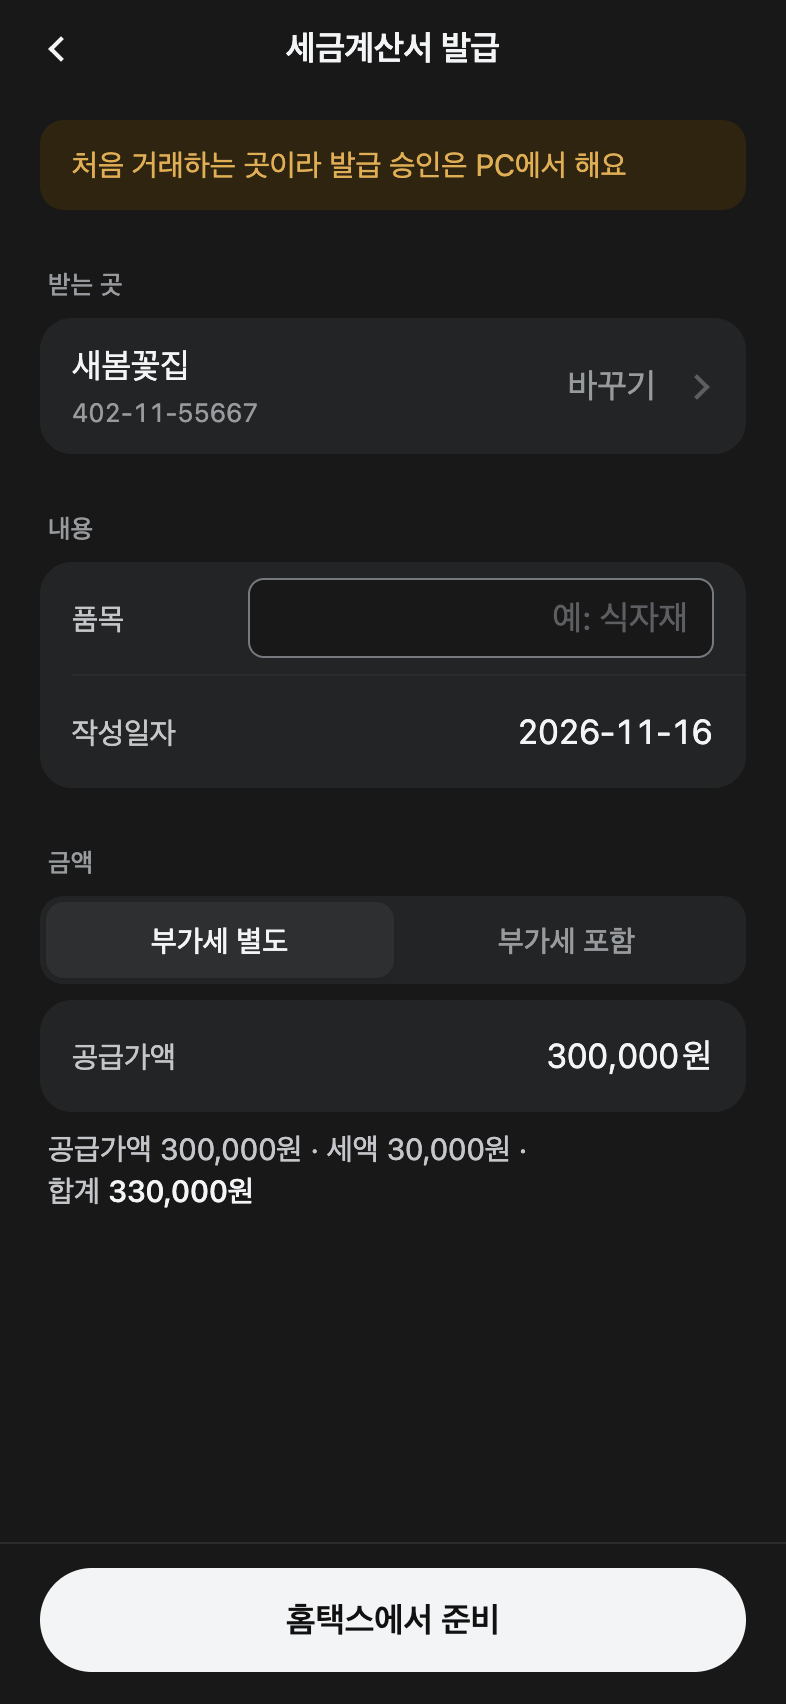
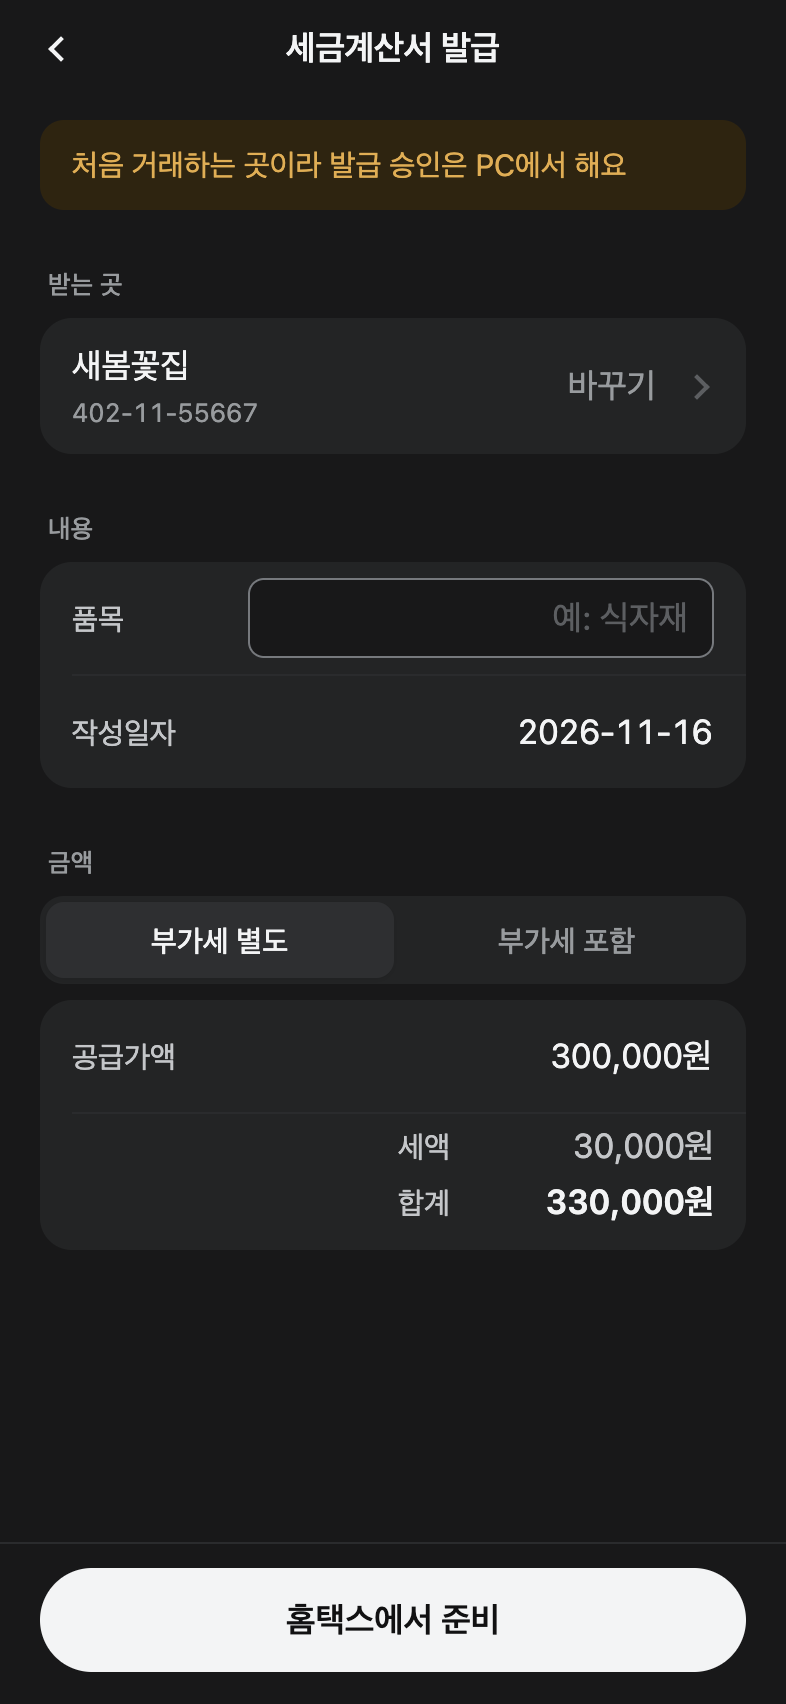
발급 작성·밀린 일 다듬기
- 금액 칸 바로 밑에 세액·합계 두 줄(오른쪽 맞춤, 합계 600). 공급가액 반복 줄 삭제
- 가운뎃점이 줄 끝에 남지 않게: 글자 부품이 " · " 뒤 칸을 붙은 칸으로 바꾼다(앱 전체)
- 금액 칸 "1,230,000원" 단위 앞 칸 없앰
- 시작 확인 줄마다 [빼기](글자만), 만료 금액은 흐림 + 취소선

Claude-Session: https://claude.ai/code/session_012kuikyEsz7WNeKSNJnA16t

Changed region(s): [[0.7023, 0.591, 0.916, 0.7154], [0.0611, 0.6532, 0.3969, 0.7154], [0.4275, 0.6532, 0.6412, 0.7154]]

diff --git a/src/ui/kit.tsx b/src/ui/kit.tsx
@@ -16,6 +16,10 @@ import { MAX_FONT_SCALE, motion, radius, size, space, textScale, type, useReduce
 /** 한글은 낱말 단위로 줄을 바꾼다(숫자와 단위, 낱말이 쪼개지지 않게). iOS는 hangul-word, 웹(갤러리)은 keep-all. */
 const keepAll = { wordBreak: 'keep-all', overflowWrap: 'break-word' } as unknown as TextStyle;
 
+/** 가운뎃점(·)이 줄 끝에 홀로 남지 않게: 점 뒤 칸을 붙은 칸으로 바꿔 점이 다음 낱말과 함께 넘어가게 한다. */
+export const glueDots = (t: string) => t.replace(/ · /g, ' ·\u00A0');
+const glue = (c: ReactNode): ReactNode => (typeof c === 'string' ? glueDots(c) : Array.isArray(c) ? c.map(glue) : c);
+
 /** 누를 때 가벼운 진동. 실패해도 조용히 넘긴다(진동이 없는 기기·설정). */
 export const tap = () => void Haptics.selectionAsync().catch(() => {});
 export const success = () => void Haptics.notificationAsync(Haptics.NotificationFeedbackType.Success).catch(() => {});
@@ -37,7 +41,7 @@ export function T({
       lineBreakStrategyIOS="hangul-word"
       style={[base, k !== 1 && { fontSize: base.fontSize * k, lineHeight: base.lineHeight * k }, { color: p[c] }, keepAll, center && { textAlign: 'center' }, style]}
     >
-      {children}
+      {glue(children)}
     </Text>
   );
 }
@@ -306,7 +310,7 @@ export function Seg<K extends string>({ options, value, onChange, testID }: { op
 const shadowCard = { shadowColor: '#000', shadowOpacity: 0.08, shadowRadius: 3, shadowOffset: { width: 0, height: 1 }, elevation: 1 };
 
 /** 묶음(tint) 안 줄에 붙는 작은 동작: 바탕색 알약 36, 누름 영역 44. */
-export function Pill({ label, onPress, testID }: { label: string; onPress: () => void; testID?: string }) {
+export function Pill({ label, onPress, testID, quiet }: { label: string; onPress: () => void; testID?: string; /** 글자만(덜 중요한 동작, 예: 건별 빼기) */ quiet?: boolean }) {
   const p = usePalette();
   return (
     <Pressable
@@ -315,9 +319,9 @@ export function Pill({ label, onPress, testID }: { label: string; onPress: () =>
       accessibilityLabel={label}
       hitSlop={4}
       onPress={onPress}
-      style={({ pressed }) => [st.pill, { backgroundColor: pressed ? p.sunken : p.canvas }]}
+      style={({ pressed }) => [st.pill, { backgroundColor: pressed ? p.sunken : quiet ? 'transparent' : p.canvas }]}
     >
-      <T v="label" lines={1}>
+      <T v="label" c={quiet ? 'ink2' : 'ink'} lines={1}>
         {label}
       </T>
     </Pressable>

diff --git a/src/screens/IssueScreen.tsx b/src/screens/IssueScreen.tsx
@@ -146,11 +146,17 @@ export function IssueScreen({
             tag={lastAmount && amount === lastAmount && vat === 'excl' ? LAST : undefined}
             testID="issue-amount"
           />
+          <View style={st.sums} testID="issue-sum">
+            <View style={st.sum}>
+              <T v="sub" c="ink2">세액</T>
+              <T v="value" c="ink2" style={st.sumValue}>{won(a.tax)}</T>
+            </View>
+            <View style={st.sum}>
+              <T v="sub" c="ink2">합계</T>
+              <T v="figure" style={st.sumValue}>{won(a.total)}</T>
+            </View>
+          </View>
         </Group>
-        <T v="sub" c="ink2" style={{ paddingHorizontal: space.s1 }} testID="issue-sum">
-          {`공급가액${NB}${won(a.supply)} · 세액${NB}${won(a.tax)} · 합계${NB}`}
-          <T v="subStrong">{won(a.total)}</T>
-        </T>
       </View>
     </Screen>
   );
@@ -231,5 +237,8 @@ function lastLine(c: Counterparty): string {
 }
 
 const st = StyleSheet.create({
+  sums: { paddingHorizontal: space.s4, paddingTop: space.s1, paddingBottom: space.s3, gap: space.s1 },
+  sum: { flexDirection: 'row', justifyContent: 'flex-end', alignItems: 'baseline', gap: space.s3 },
+  sumValue: { minWidth: 120, textAlign: 'right' },
   search: { minHeight: size.hit + 4, borderRadius: radius.full, paddingHorizontal: space.s4 },
 });

diff --git a/src/screens/QueueScreen.tsx b/src/screens/QueueScreen.tsx
@@ -64,7 +64,12 @@ function JobRow({ job, state, onAction }: { job: Job; state: JobState; onAction:
       <View style={st.line}>
         <T style={{ flex: 1 }}>{job.title}</T>
         {job.amount !== null && (
-          <T v="value" c={state === 'expired' ? 'ink3' : 'ink'} style={{ flexShrink: 0 }}>
+          <T
+            v="value"
+            c={state === 'expired' ? 'ink3' : 'ink'}
+            // 만료는 색만으로 말하지 않는다: 취소선 + 읽기 도구에는 "취소됨"
+            style={[{ flexShrink: 0 }, state === 'expired' && { textDecorationLine: 'line-through' }]}
+          >
             {won(job.amount)}
           </T>
         )}
@@ -73,7 +78,7 @@ function JobRow({ job, state, onAction }: { job: Job; state: JobState; onAction:
         <T v="sub" c={tone ?? (state === 'expired' ? 'ink3' : 'ink2')} style={{ flex: 1 }}>
           {line}
         </T>
-        {action && <Pill testID={`job-${job.id}-${action.key}`} label={action.label} onPress={() => onAction(action.key)} />}
+        {action && <Pill quiet={state === 'confirmStart'} testID={`job-${job.id}-${action.key}`} label={action.label} onPress={() => onAction(action.key)} />}
       </View>
     </View>
   );

diff --git a/src/ui/field.tsx b/src/ui/field.tsx
@@ -103,7 +103,7 @@ const s = StyleSheet.create({
   row: { paddingHorizontal: space.s4, paddingVertical: space.s2, gap: space.s1, minHeight: 56, justifyContent: 'center' },
   line: { flexDirection: 'row', alignItems: 'center', gap: space.s3 },
   label: { minWidth: 76, gap: 1 },
-  box: { flex: 1, minHeight: 40, borderWidth: 1, borderRadius: radius.sm, flexDirection: 'row', alignItems: 'center', justifyContent: 'flex-end', gap: 2 },
-  input: { flex: 1, textAlign: 'right', paddingVertical: space.s1 },
+  box: { flex: 1, minHeight: 40, borderWidth: 1, borderRadius: radius.sm, flexDirection: 'row', alignItems: 'center', justifyContent: 'flex-end' },
+  input: { flex: 1, textAlign: 'right', paddingVertical: space.s1, paddingRight: 0 },
   fix: { alignSelf: 'flex-start', minHeight: 32, justifyContent: 'center', paddingHorizontal: space.s3, borderRadius: radius.full, marginTop: space.s1 },
 });

diff --git a/src/queue.ts b/src/queue.ts
@@ -68,12 +68,12 @@ export const REASON_LINE: Record<NeedPcReason, string> = {
   notApprover: '이 폰은 승인 기기가 아님',
 };
 
-/** 줄마다 하나뿐인 동작. 시작 확인은 줄이 아니라 바닥 [모두 시작]이 맡는다. */
+/** 줄마다 하나뿐인 동작. 시작 확인은 바닥 [모두 시작]이 주요 동작이고, 줄에는 건별 [빼기](글자만)만 있다. */
 export type JobAction = 'cancel' | 'progress' | 'approve' | 'retry';
 export const STATE_ACTION: Record<JobState, { key: JobAction; label: string } | null> = {
   entrusted: { key: 'cancel', label: '취소' },
   phoneWaiting: { key: 'cancel', label: '취소' },
-  confirmStart: null,
+  confirmStart: { key: 'cancel', label: '빼기' },
   running: { key: 'progress', label: '진행 보기' },
   approval: { key: 'approve', label: '승인 열기' },
   needPc: null,
